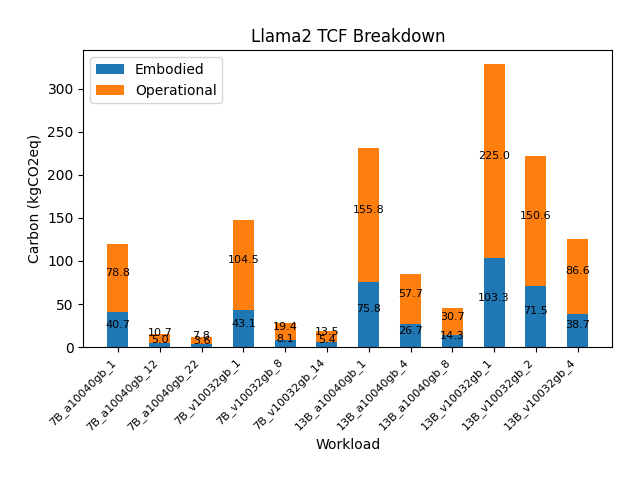
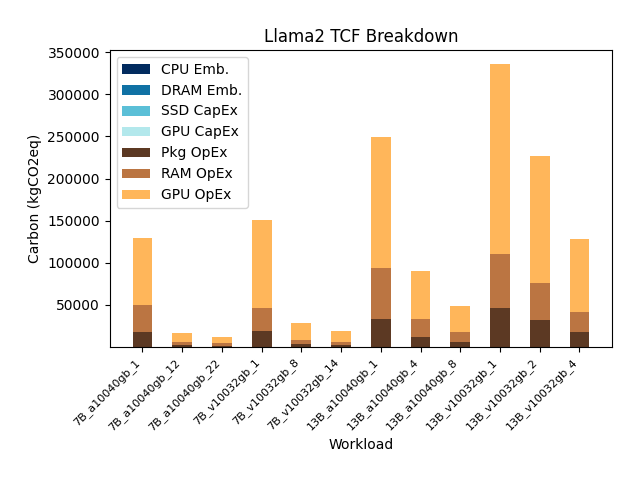
tcf breakdown

diff --git a/nvidia-gpu/tensorrt-llm/plotting/gpu_batch_exp_plotting.py b/nvidia-gpu/tensorrt-llm/plotting/gpu_batch_exp_plotting.py
@@ -481,9 +481,12 @@ def plot_tcf_breakdown(
     workload_duration_s, # how long are we running this load for? (in seconds)
     gCO2eq_per_kWh,      # gC02eq per kWh (regional carbon intensity)
     PUE,                 # Power Usage Efficiency
-    server_lifetime_y,      # expected lifetime of a GPU (in years)
-    kgCO2eq_per_a10040gb,
-    kgCO2eq_per_v10032gb,
+    server_lifetime_y,   # expected lifetime of a GPU (in years)
+    #kgCO2eq_per_a10040gb,
+    #kgCO2eq_per_v10032gb,
+    second_life,
+    pkg_power_load,
+    ram_power_load,
     plot_filename,
     plot_name
 ):
@@ -526,22 +529,30 @@ def plot_tcf_breakdown(
 
     bar_labels = []
     total_operational_carbons = []
+    total_pkg_energy_carbons = []
+    total_ram_energy_carbons = []
+    total_gpu_energy_carbons = []
     total_embodied_carbons = []
     total_overall_carbons = []
+    total_server_cpu_carbons = []
+    total_server_dram_carbons = []
+    total_server_ssd_carbons = []
+    total_server_gpu_carbons = []
     # 1) Find out what is the <avg_tps_max> (and corresponding <avg_ept_max>) for each GPU/model configuration
     # 2) Find out the minimum number of this GPU is required to serve the required_tps load
     # 3) Calculate total energy required to compute <required_tps> for <workload_duration_s> given <avg_ept>
     for bmark_param_group_dict in bmark_param_group_dicts:
-        print('\n\n')
         for key, val in bmark_param_group_dict.items():
             print(f'{key}: {val}')
 
         if bmark_param_group_dict['gpu_type'] == 'a10040gb':
-            gpu_embodied = kgCO2eq_per_a10040gb
+            #gpu_embodied = kgCO2eq_per_a10040gb
+            gpu_server_carbon_data = server_carbon_data.aws_p4d_24xlarge_carbon
         elif bmark_param_group_dict['gpu_type'] == 'v10032gb':
-            gpu_embodied = kgCO2eq_per_v10032gb
+            #gpu_embodied = kgCO2eq_per_v10032gb
+            gpu_server_carbon_data = server_carbon_data.aws_p3dn_24xlarge_carbon
         else:
-            raise ValueError('plot_tcf_breakdown: gpu_type not found')
+            raise ValueError('plot_tcf_breakdown: gpu_type not found in bmark_param_group_dict')
 
         avg_tps = bmark_param_group_dict['avg_tps']
         avg_ept = bmark_param_group_dict['avg_ept']
@@ -550,36 +561,142 @@ def plot_tcf_breakdown(
                len(avg_ept) == len(batch_size))
 
         for avg_tps_val, avg_ept_val, batch_size_val in zip(avg_tps, avg_ept, batch_size):
-            # Calculate the number of required GPUs
-            # (tokens / sec) / ((tokens / sec) / gpu)
-            num_gpus_req = math.ceil(required_tps / avg_tps_val)
+            # Calculate the number of required GPU servers
+            # Each GPU server contains 8 GPUs
+            # (tokens / sec) / ((tokens / sec) / gpu_server)
+            num_gpu_servers_req = math.ceil(required_tps / (avg_tps_val * 8))
 
-            # Calculate the total energy required to compute the workload
+            # Calulate the total server PKG power/energy required to service the workload
+            if pkg_power_load not in gpu_server_carbon_data:
+                raise ValueError('plot_tcf_breakdown: pkg_power_load not found in gpu_server_carbon_data')
+            single_server_pkg_power = gpu_server_carbon_data[pkg_power_load]
+            total_pkg_power = single_server_pkg_power * num_gpu_servers_req
+            total_pkg_energy_joules = total_pkg_power * workload_duration_s * PUE
+            total_pkg_energy_kWh = joules_to_kWh(total_pkg_energy_joules)
+            total_pkg_energy_carbon = g_to_kg(total_pkg_energy_kWh * gCO2eq_per_kWh)
+
+            # Calculate the total server DRAM power required to service the workload
+            if ram_power_load not in gpu_server_carbon_data:
+                raise ValueError('plot_tcf_breakdown: ram_power_load not found in gpu_server_carbon_data')
+            single_server_ram_power = gpu_server_carbon_data[ram_power_load]
+            total_ram_power = single_server_ram_power * num_gpu_servers_req
+            total_ram_energy_joules = total_ram_power * workload_duration_s * PUE
+            total_ram_energy_kWh = joules_to_kWh(total_ram_energy_joules)
+            total_ram_energy_carbon = g_to_kg(total_ram_energy_kWh * gCO2eq_per_kWh)
+
+            # Calculate the total GPU energy required to compute the workload
             # (joules / token) * (tokens / sec) * sec
-            total_energy_joules = avg_ept_val * required_tps * workload_duration_s * PUE
-            total_energy_kWh = joules_to_kWh(total_energy_joules)
+            total_gpu_energy_joules = avg_ept_val * required_tps * workload_duration_s * PUE
+            total_gpu_energy_kWh = joules_to_kWh(total_gpu_energy_joules)
+            total_gpu_energy_carbon = g_to_kg(total_gpu_energy_kWh * gCO2eq_per_kWh)
 
-            # Calculate operational carbon from energy usage and carbon intensity
-            total_operational_carbon_g = total_energy_kWh * gCO2eq_per_kWh
-            total_operational_carbon_kg = g_to_kg(total_operational_carbon_g)
+            # Calculate operational carbon from energy usage and rate
+            total_operational_carbon = total_pkg_energy_carbon + total_ram_energy_carbon + total_gpu_energy_carbon
+            total_operational_carbons.append(total_operational_carbon)
+            total_pkg_energy_carbons.append(total_pkg_energy_carbon)
+            total_ram_energy_carbons.append(total_ram_energy_carbon)
+            total_gpu_energy_carbons.append(total_gpu_energy_carbon)
 
-            # Calculate embodied_carbon (kgCO2eq) from workload duration, single gpu embodied, and gpu lifetime
-            gpu_lifetime_s = years_to_sec(server_lifetime_y)
-            total_embodied_carbon = num_gpus_req * gpu_embodied * (workload_duration_s / gpu_lifetime_s)
-            total_overall_carbon = total_operational_carbon_kg + total_embodied_carbon
+            server_lifetime_s = years_to_sec(server_lifetime_y)
+
+            # Embodied carbon is 0 for second-life V100s
+            if second_life and bmark_param_group_dict['gpu_type'] == 'v10032gb':
+                total_server_cpu_carbon, total_server_gpu_carbon, total_server_platform_carbon, total_server_dram_carbon = 0, 0, 0, 0
+            else:
+                # Calculate embodied carbon from CPU
+                single_server_cpu_carbon = gpu_server_carbon_data['cpu_embodied']
+                total_server_cpu_carbon = single_server_cpu_carbon * num_gpu_servers_req * (workload_duration_s / server_lifetime_s)
+
+                # Calculate embodied carbon from DRAM
+                single_server_dram_carbon = gpu_server_carbon_data['memory_embodied']
+                total_server_dram_carbon = single_server_dram_carbon * num_gpu_servers_req * (workload_duration_s / server_lifetime_s)
+
+                # Calculate embodied carbon from SSD
+                single_server_ssd_carbon = gpu_server_carbon_data['platform_embodied']
+                total_server_ssd_carbon = single_server_ssd_carbon * num_gpu_servers_req * (workload_duration_s / server_lifetime_s)
+
+                # Calculate embodied carbon from GPU
+                single_server_gpu_carbon = gpu_server_carbon_data['gpu_embodied']
+                total_server_gpu_carbon = single_server_gpu_carbon * num_gpu_servers_req * (workload_duration_s / server_lifetime_s)
+
+            # Calculate embodied carbon from workload duration, single gpu price, and gpu lifetime
+            total_embodied_carbon = total_server_cpu_carbon + total_server_dram_carbon + total_server_ssd_carbon + total_server_gpu_carbon
+            total_embodied_carbons.append(total_embodied_carbon)
+            total_server_cpu_carbons.append(total_server_cpu_carbon)
+            total_server_dram_carbons.append(total_server_dram_carbon)
+            total_server_ssd_carbons.append(total_server_ssd_carbon)
+            total_server_gpu_carbons.append(total_server_gpu_carbon)
 
             model_size = bmark_param_group_dict['model_size']
             gpu_type = bmark_param_group_dict['gpu_type']
             bar_labels.append(f'{model_size}_{gpu_type}_{batch_size_val}')
-            total_operational_carbons.append(total_operational_carbon_kg)
-            total_embodied_carbons.append(total_embodied_carbon)
+
+            total_overall_carbon = total_operational_carbon + total_embodied_carbon
             total_overall_carbons.append(total_overall_carbon)
 
     fig, ax = plt.subplots()
     bar_width = 0.5
     bar_positions = range(len(bar_labels))
-    embodied_bars = ax.bar(bar_positions, total_embodied_carbons, bar_width, label='Embodied')
-    operational_bars = ax.bar(bar_positions, total_operational_carbons, bar_width, bottom=total_embodied_carbons, label='Operational')
+
+    #embodied_bars = ax.bar(bar_positions, total_embodied_carbons, bar_width, label='Embodied')
+    #operational_bars = ax.bar(bar_positions, total_operational_carbons, bar_width, bottom=total_embodied_carbons, label='Operational')
+    cpu_bars = ax.bar(
+        bar_positions,
+        total_server_cpu_carbons,
+        bar_width,
+        label='CPU Emb.',
+        color='#022b5f'
+    )
+    dram_bars = ax.bar(
+        bar_positions,
+        total_server_dram_carbons,
+        bar_width,
+        bottom=total_server_cpu_carbons,
+        label='DRAM Emb.',
+        color='#1071a4'
+    )
+    ssd_bars = ax.bar(
+        bar_positions,
+        total_server_ssd_carbons,
+        bar_width,
+        bottom=[i+j for i,j in zip(total_server_cpu_carbons, total_server_dram_carbons)],
+        label='SSD CapEx',
+        color='#5bbfd7'
+    )
+    gpu_bars = ax.bar(
+        bar_positions,
+        total_server_gpu_carbons,
+        bar_width,
+        bottom=[i+j+k for i,j,k in zip(total_server_cpu_carbons, total_server_dram_carbons, total_server_ssd_carbons)],
+        label='GPU CapEx',
+        color='#b3e8ec'
+    )
+
+    pkg_energy_bars = ax.bar(
+        bar_positions,
+        total_pkg_energy_carbons,
+        bar_width,
+        bottom=[i+j+k+l for i,j,k,l in zip(total_server_cpu_carbons, total_server_dram_carbons, total_server_ssd_carbons, total_server_gpu_carbons)],
+        label='Pkg OpEx',
+        color='#5c3923'
+    )
+    ram_energy_bars = ax.bar(
+        bar_positions,
+        total_ram_energy_carbons,
+        bar_width,
+        bottom=[i+j+k+l+m for i,j,k,l,m in zip(total_server_cpu_carbons, total_server_dram_carbons, total_server_ssd_carbons, total_server_gpu_carbons, total_pkg_energy_carbons)],
+        label='RAM OpEx',
+        color='#bb7542'
+    )
+    gpu_energy_bars = ax.bar(
+        bar_positions,
+        total_gpu_energy_carbons,
+        bar_width,
+        bottom=[i+j+k+l+m+n for i,j,k,l,m,n in zip(total_server_cpu_carbons, total_server_dram_carbons, total_server_ssd_carbons, total_server_gpu_carbons, total_pkg_energy_carbons, total_ram_energy_carbons)],
+        label='GPU OpEx',
+        color='#ffb65a'
+    )
+
     ax.set_xlabel('Workload')
     ax.set_ylabel('Carbon (kgCO2eq)')
     ax.set_title(plot_name)
@@ -588,16 +705,16 @@ def plot_tcf_breakdown(
     ax.legend()
 
     # Add cost number to capex and opex bars
-    for bar, embodied_carbon, operational_carbon in zip(embodied_bars, total_embodied_carbons, total_operational_carbons):
-        height = bar.get_height()
-        ax.text(
-            bar.get_x() + bar.get_width() / 2.0, height / 2,
-            f'{embodied_carbon:.1f}', ha='center', va='bottom', color='black', fontsize=8
-        )
-        ax.text(
-            bar.get_x() + bar.get_width() / 2.0, height + operational_carbon / 2,
-            f'{operational_carbon:.1f}', ha='center', va='bottom', color='black', fontsize=8
-        )
+    #for bar, embodied_carbon, operational_carbon in zip(embodied_bars, total_embodied_carbons, total_operational_carbons):
+    #    height = bar.get_height()
+    #    ax.text(
+    #        bar.get_x() + bar.get_width() / 2.0, height / 2,
+    #        f'{embodied_carbon:.1f}', ha='center', va='bottom', color='black', fontsize=8
+    #    )
+    #    ax.text(
+    #        bar.get_x() + bar.get_width() / 2.0, height + operational_carbon / 2,
+    #        f'{operational_carbon:.1f}', ha='center', va='bottom', color='black', fontsize=8
+    #    )
 
     plt.tight_layout(pad=2.0)
     plt.savefig('plots/' + plot_filename)
@@ -1295,8 +1412,11 @@ def main(args):
             args.gCO2eq_per_kWh,
             args.pue,
             args.server_lifetime_y,
-            args.kgCO2eq_per_a10040gb,
-            args.kgCO2eq_per_v10032gb,
+            #args.kgCO2eq_per_a10040gb,
+            #args.kgCO2eq_per_v10032gb,
+            args.second_life,
+            args.pkg_power_load,
+            args.ram_power_load,
             args.plot_filename,
             args.plot_name
         )
